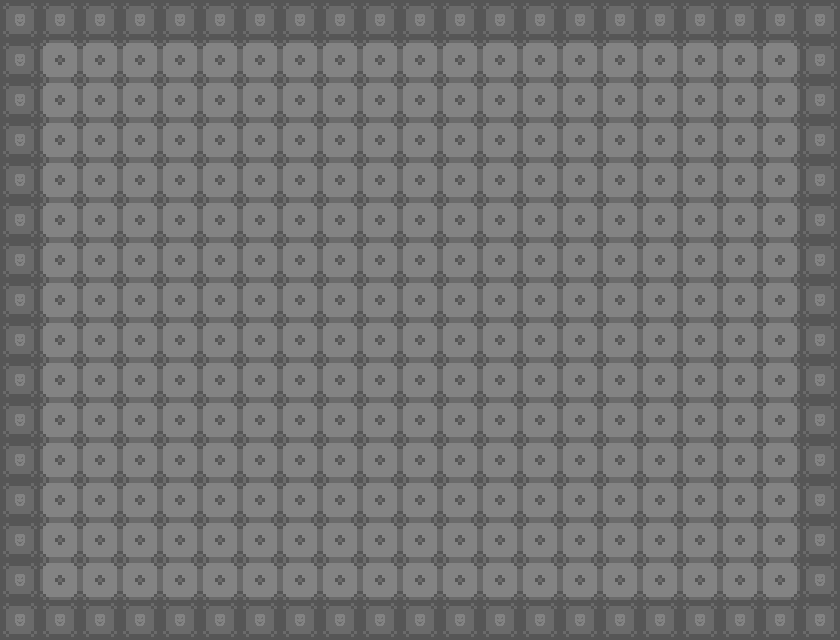
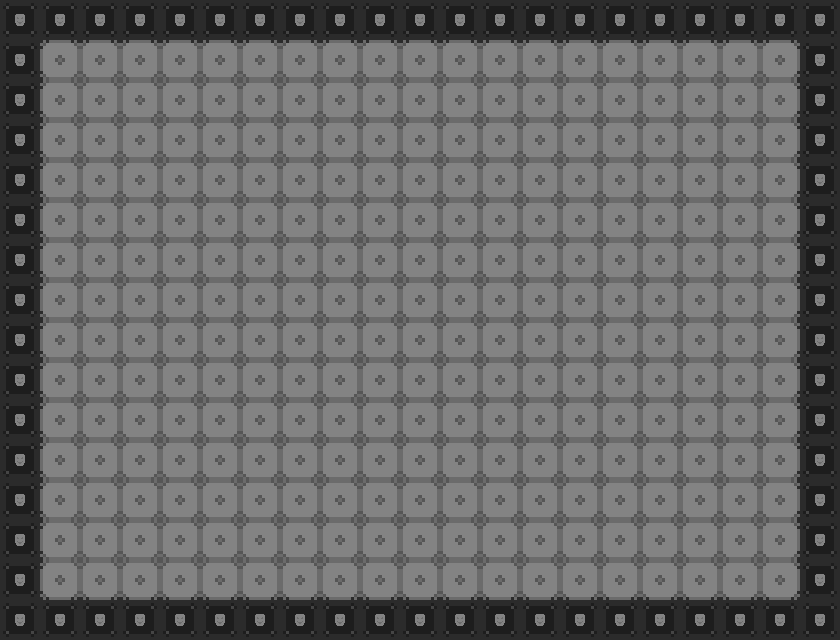
Finish game state 2 screen

Changed region(s): [[0.0, 0.0, 1.0, 1.0]]

diff --git a/PRO-PP-snake/PRO-PP-snake.c b/PRO-PP-snake/PRO-PP-snake.c
@@ -15,10 +15,11 @@
 int main() {
 
 	ALLEGRO_DISPLAY* display = NULL;
-	ALLEGRO_FONT* font = NULL;
+	ALLEGRO_FONT* font = NULL, *mediumFont = NULL, * smallFont = NULL;
 	ALLEGRO_EVENT_QUEUE* event_queue = NULL;
 	ALLEGRO_KEYBOARD_STATE keyState;
 	ALLEGRO_TIMER* timer = NULL;
+	ALLEGRO_BITMAP* background = NULL;
 
 	al_init();
 	al_init_font_addon();
@@ -30,7 +31,11 @@ int main() {
 	al_set_window_title(display, "Snake");
 	al_set_display_icon(display, al_load_bitmap("apple.png"));
 
+	background = al_load_bitmap("main-background.png");
 	font = al_load_ttf_font("Silkscreen-Regular.ttf", 64, 0);
+	mediumFont = al_load_ttf_font("Silkscreen-Regular.ttf", 48, 0);
+	smallFont = al_load_ttf_font("Silkscreen-Regular.ttf", 32, 0);
+
 	event_queue = al_create_event_queue();
 	timer = al_create_timer(1.0 / 60.0);
 
@@ -56,6 +61,7 @@ int main() {
 		if (event.type == ALLEGRO_EVENT_TIMER) {
 			al_flip_display();
 			al_clear_to_color(al_map_rgb(0, 0, 0));
+			al_draw_scaled_bitmap(background, 0, 0, al_get_bitmap_width(background), al_get_bitmap_height(background), 0, 0, al_get_display_width(display), al_get_display_height(display), 0);
 			
 			if (interfaceController->gameState == 0) {
 				al_draw_text(font, al_map_rgb(255, 255, 255), 600, 350, ALLEGRO_ALIGN_CENTER, interfaceController->menu[interfaceController->menuMode][interfaceController->menuCursor]);
@@ -82,10 +88,13 @@ int main() {
 					}
 				}
 
+				al_draw_text(mediumFont, al_map_rgb(240, 240, 240), 50, 40, ALLEGRO_ALIGN_LEFT, "Pause");
+				al_draw_text(smallFont, al_map_rgb(240, 240, 240), 50, 90, ALLEGRO_ALIGN_LEFT, "[ESC]");
+				al_draw_textf(font, al_map_rgb(144, 144, 144), al_get_display_width(display) / 2.0, 100, ALLEGRO_ALIGN_CENTER, "Score: %d", interfaceController->snakeLength - 3);
 				printMap(map, interfaceController->prevSnakeDirection);
 				
 				if (interfaceController->isPaused) {
-					al_draw_text(font, al_map_rgb(255, 255, 255), 600, 400, ALLEGRO_ALIGN_CENTER, "Pauza");
+					al_draw_text(font, al_map_rgb(255, 255, 255), 600, 400, ALLEGRO_ALIGN_CENTER, "Pause");
 				}
 				else {
 					interfaceController->timerCounter++;
@@ -102,7 +111,7 @@ int main() {
 								interfaceController->gameState = 3;
 								interfaceController->gameOverState = 1;
 							}
-							if (interfaceController->snakeLength % 5 == 0)
+							if (interfaceController->snakeLength % 10 == 0)
 								interfaceController->snakeSpeed += interfaceController->snakeStep;
 						}
 						interfaceController->timerCounter = 0;
@@ -149,11 +158,13 @@ int main() {
 						switch (interfaceController->menuCursor) {
 						case 0:
 							interfaceController->snakeSpeed = 1.0;
+							interfaceController->snakeStep = 0.1;
 							interfaceController->gameState = 2;
 							interfaceController->menuMode = 0;
 							break;
 						case 1:
 							interfaceController->snakeSpeed = 2.0;
+							interfaceController->snakeStep = 0.05;
 							interfaceController->gameState = 2;
 							interfaceController->menuMode = 0;
 							break;
@@ -198,6 +209,7 @@ int main() {
 	
 	destroyMap(map);
 	destroyInterfaceController(interfaceController);
+	al_destroy_bitmap(background);
 	al_destroy_display(display);
 	al_destroy_font(font);
 	al_destroy_timer(timer);

diff --git a/PRO-PP-snake/Map.c b/PRO-PP-snake/Map.c
@@ -22,7 +22,7 @@ Map* createMap(int width, int height, ALLEGRO_DISPLAY* display) {
 	map->displayHeight = al_get_display_height(display);
 	map->apple[0] = -1;
 	map->apple[1] = -1;
-	map->boardImage = al_load_bitmap("board.png");
+	map->boardImage = al_load_bitmap("board-shadow.png");
 	map->appleImage = al_load_bitmap("apple.png");
 	map->snakeHeadImage = al_load_bitmap("snake-head.png");
 	map->snakeTailImage = al_load_bitmap("snake-tail.png");
@@ -101,7 +101,7 @@ int updateMap(Map* map, int direction) {
 }
 
 void printMap(Map* map, int direction) {
-	al_draw_bitmap(map->boardImage, map->displayWidth / 2 - 380, map->displayHeight / 2 - 240, 0);
+	al_draw_bitmap(map->boardImage, map->displayWidth / 2 - 440, map->displayHeight / 2 - 240, 0);
 
 	for (int y = 0; y < map->height; y++) {
 		for (int x = 0; x < map->width; x++) {
@@ -109,13 +109,13 @@ void printMap(Map* map, int direction) {
 			case 0:
 				break;
 			case 1:
-				al_draw_rotated_bitmap(map->snakeHeadImage, 18, 18, map->displayWidth / 2 - 320 + x * 40, map->displayHeight / 2 - 180 + y * 40, direction * 1.5708, 0);
+				al_draw_rotated_bitmap(map->snakeHeadImage, 18, 18, map->displayWidth / 2 - 360 + x * 40, map->displayHeight / 2 - 160 + y * 40, direction * 1.5708, 0);
 				break;
 			case 2:
-				al_draw_bitmap(map->snakeTailImage, map->displayWidth / 2 - 338 + x * 40, map->displayHeight / 2 - 198 + y * 40, 0);
+				al_draw_bitmap(map->snakeTailImage, map->displayWidth / 2 - 378 + x * 40, map->displayHeight / 2 - 178 + y * 40, 0);
 				break;
 			case 10:
-				al_draw_bitmap(map->appleImage, map->displayWidth / 2 - 338 + x * 40, map->displayHeight / 2 - 198 + y * 40, 0);
+				al_draw_bitmap(map->appleImage, map->displayWidth / 2 - 378 + x * 40, map->displayHeight / 2 - 178 + y * 40, 0);
 				break;
 			default:
 				break;
